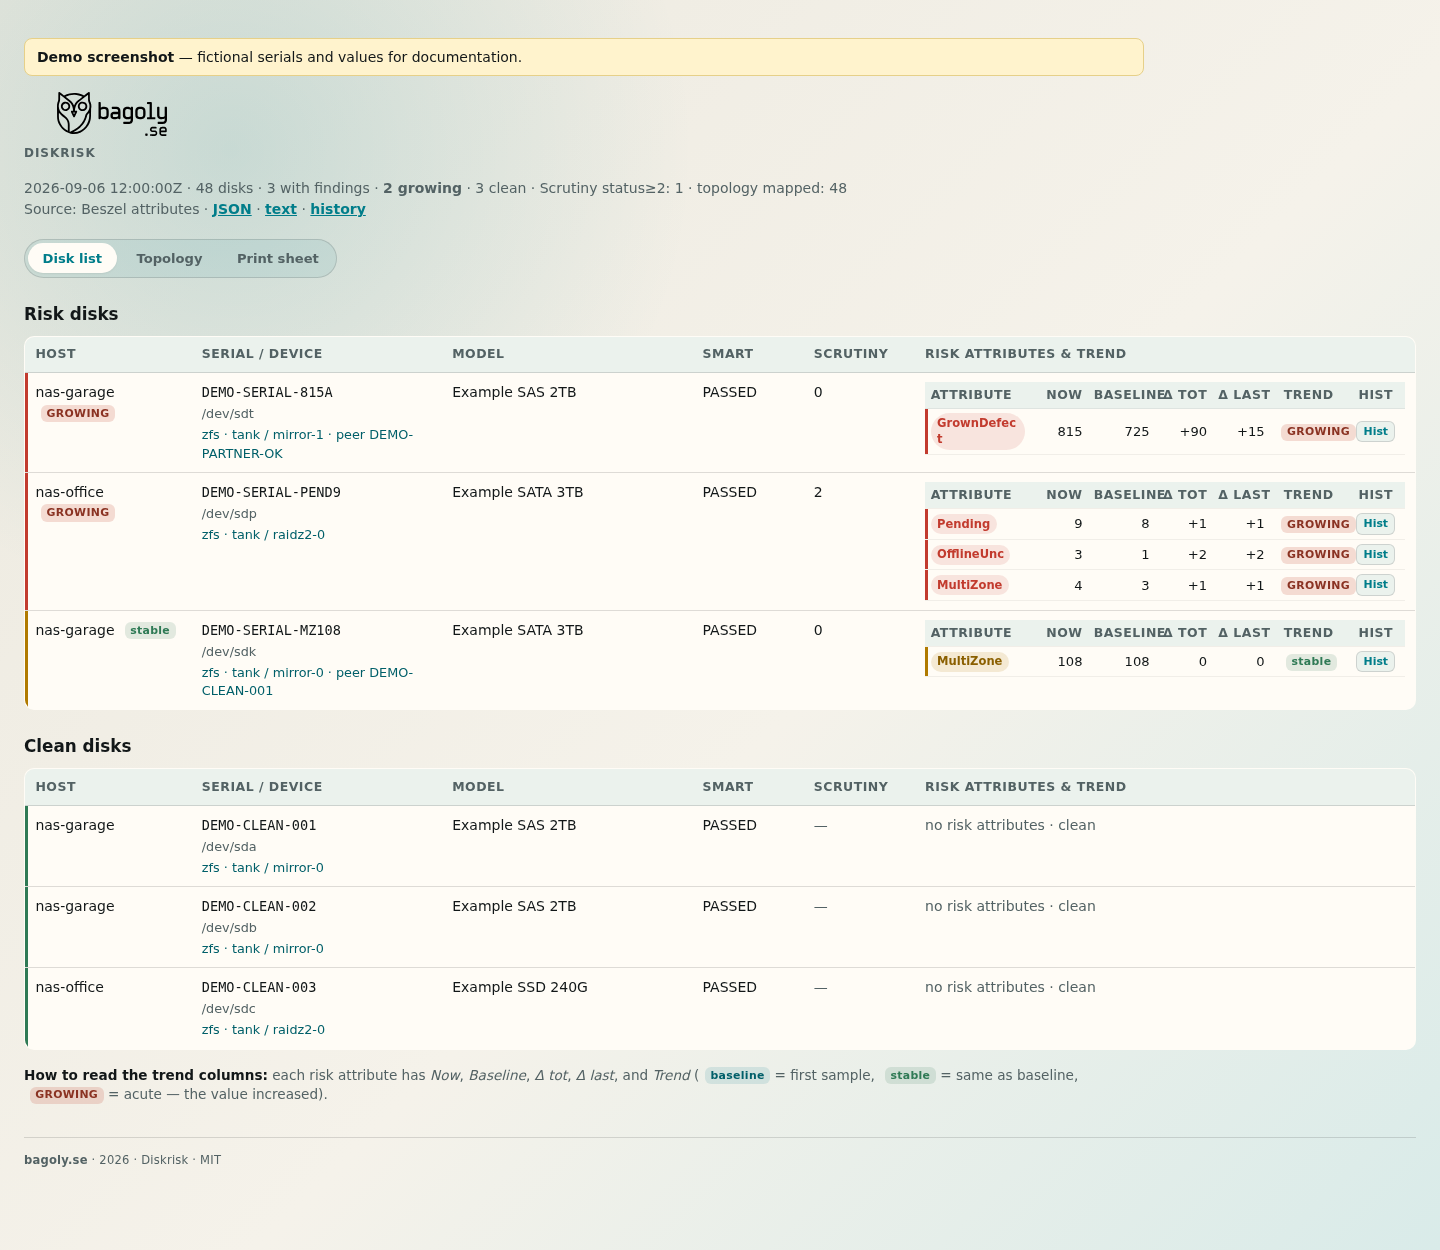
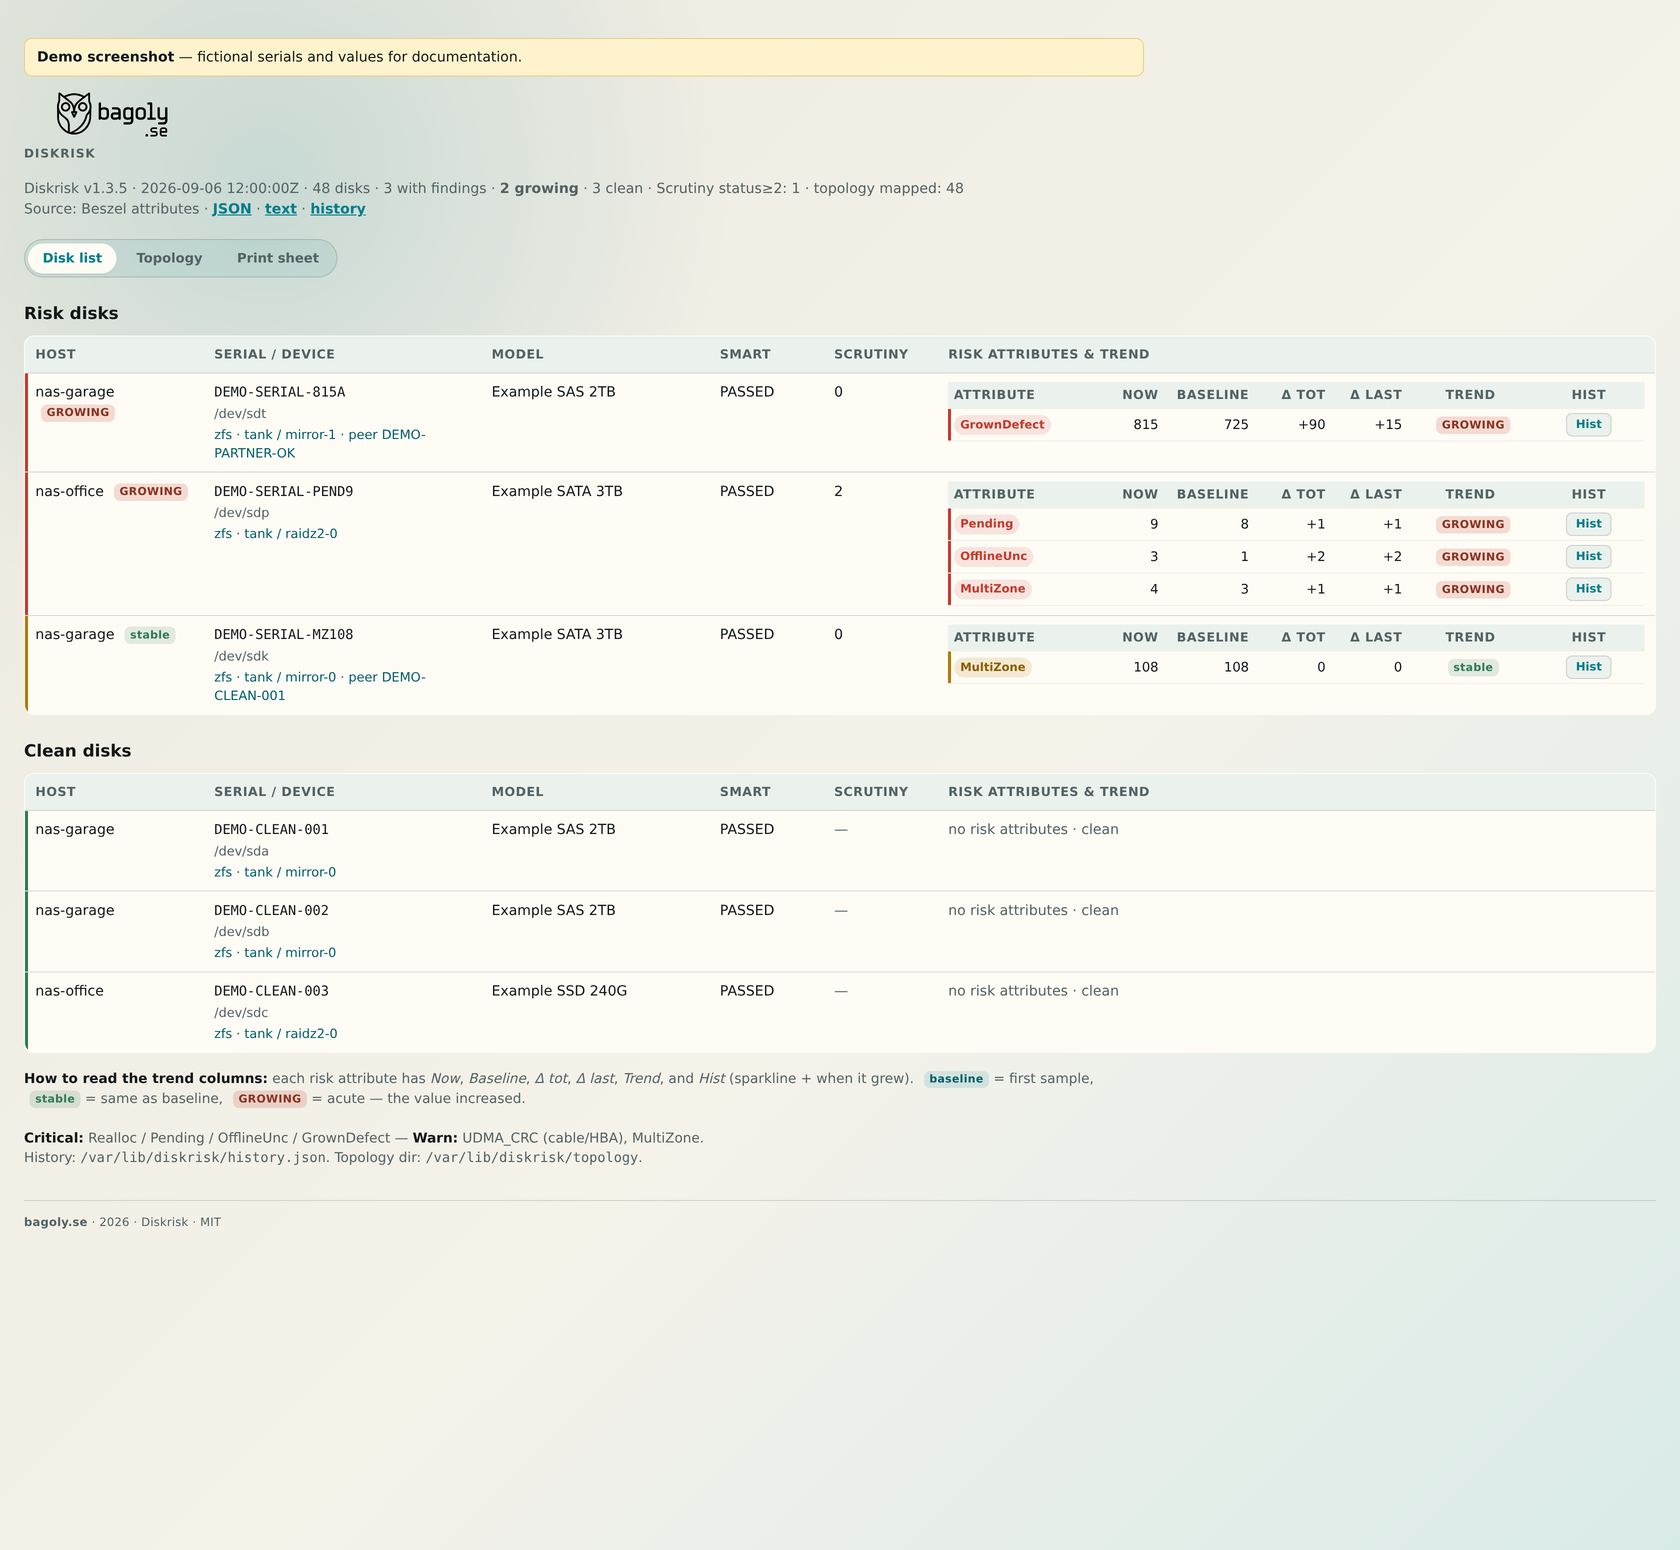
Refresh disk-list demo screenshot for v1.3.5 UI Wider attribute/Hist columns, version + history legend, sharper capture.

diff --git a/docs/examples/diskrisk-ui-demo.html b/docs/examples/diskrisk-ui-demo.html
@@ -40,12 +40,12 @@ table.disk-table {
   width: 100%; border-collapse: collapse; background: var(--card);
   border: 1px solid var(--line); border-radius: 10px; overflow: hidden; table-layout: fixed;
 }
-table.disk-table col.c-host { width: 12%; }
-table.disk-table col.c-serial { width: 18%; }
-table.disk-table col.c-model { width: 18%; }
-table.disk-table col.c-smart { width: 8%; }
-table.disk-table col.c-scr { width: 8%; }
-table.disk-table col.c-attrs { width: 36%; }
+table.disk-table col.c-host { width: 11%; }
+table.disk-table col.c-serial { width: 17%; }
+table.disk-table col.c-model { width: 14%; }
+table.disk-table col.c-smart { width: 7%; }
+table.disk-table col.c-scr { width: 7%; }
+table.disk-table col.c-attrs { width: 44%; }
 table.disk-table th, table.disk-table td {
   padding: .55rem .65rem; text-align: left; vertical-align: top;
   border-bottom: 1px solid var(--line); word-break: break-word;
@@ -62,18 +62,20 @@ tr.ok td:first-child { box-shadow: inset 3px 0 0 var(--ok); }
 code { font-size: .85rem; }
 .muted { color: var(--muted); }
 table.attrs { width: 100%; border-collapse: collapse; font-size: .82rem; table-layout: fixed; }
-table.attrs col.c-a-name { width: 22%; }
-table.attrs col.c-a-nu { width: 12%; }
-table.attrs col.c-a-bas { width: 14%; }
-table.attrs col.c-a-dtot { width: 12%; }
-table.attrs col.c-a-dprev { width: 12%; }
-table.attrs col.c-a-trend { width: 16%; }
-table.attrs col.c-a-hist { width: 12%; }
+table.attrs col.c-a-name { width: 20%; }
+table.attrs col.c-a-nu { width: 11%; }
+table.attrs col.c-a-bas { width: 13%; }
+table.attrs col.c-a-dtot { width: 11%; }
+table.attrs col.c-a-dprev { width: 11%; }
+table.attrs col.c-a-trend { width: 18%; }
+table.attrs col.c-a-hist { width: 16%; }
 table.attrs th, table.attrs td {
   padding: .25rem .35rem; border: none; border-bottom: 1px solid rgba(18,23,24,.06); vertical-align: middle;
+  overflow: hidden; text-overflow: ellipsis;
 }
 table.attrs th.num, table.attrs td.num { text-align: right; font-variant-numeric: tabular-nums; white-space: nowrap; }
 table.attrs th.trend, table.attrs td.trend, table.attrs th.hist, table.attrs td.hist { text-align: center; white-space: nowrap; }
+table.attrs th.attr-name, table.attrs td.attr-name { text-align: left; white-space: nowrap; }
 .chip {
   display: inline-block; padding: .1rem .4rem; border-radius: 999px;
   font-size: .72rem; font-weight: 600;
@@ -91,8 +93,8 @@ table.attrs th.trend, table.attrs td.trend, table.attrs th.hist, table.attrs td.
 .badge.base { background: rgba(0,125,138,.12); color: #005f69; }
 .hist-btn {
   margin: 0; border: 1px solid var(--line); background: rgba(0,125,138,.08);
-  color: var(--teal); font: inherit; font-size: .68rem; font-weight: 700;
-  padding: .12rem .4rem; border-radius: 6px; cursor: pointer;
+  color: var(--teal); font: inherit; font-size: .72rem; font-weight: 700;
+  padding: .15rem .55rem; border-radius: 6px; cursor: pointer;
 }
 .view-bar { display: flex; flex-wrap: wrap; align-items: center; gap: .65rem; margin: 0 0 1rem; }
 .view-toggle {
@@ -207,6 +209,7 @@ table.attrs th.trend, table.attrs td.trend, table.attrs th.hist, table.attrs td.
     <p class="product">Diskrisk</p>
   </header>
   <p class="meta">
+    Diskrisk v1.3.5 ·
     2026-09-06 12:00:00Z ·
     48 disks ·
     3 with findings ·
@@ -317,6 +320,7 @@ table.attrs th.trend, table.attrs td.trend, table.attrs th.hist, table.attrs td.
     </tbody>
   </table>
 
+  <div id="clean-section">
   <h2>Clean disks</h2>
   <table class="disk-table">
     <colgroup>
@@ -335,16 +339,19 @@ table.attrs th.trend, table.attrs td.trend, table.attrs th.hist, table.attrs td.
       <tr class="ok"><td>nas-office</td><td><code>DEMO-CLEAN-003</code><div class="sub">/dev/sdc</div><div class="sub topo">zfs · tank / raidz2-0</div></td><td>Example SSD 240G</td><td>PASSED</td><td class="muted">—</td><td class="muted">no risk attributes · clean</td></tr>
     </tbody>
   </table>
+  </div>
 
   <p class="legend">
     <strong>How to read the trend columns:</strong>
-    each risk attribute has <em>Now</em>, <em>Baseline</em>, <em>Δ tot</em>, <em>Δ last</em>, and
-    <em>Trend</em> (<span class="badge base">baseline</span> =
-    first sample,
-    <span class="badge stable">stable</span> =
-    same as baseline,
-    <span class="badge grow">GROWING</span> =
-    acute — the value increased).
+    each risk attribute has <em>Now</em>, <em>Baseline</em>, <em>Δ tot</em>, <em>Δ last</em>,
+    <em>Trend</em>, and <em>Hist</em> (sparkline + when it grew).
+    <span class="badge base">baseline</span> = first sample,
+    <span class="badge stable">stable</span> = same as baseline,
+    <span class="badge grow">GROWING</span> = acute — the value increased.<br/><br/>
+    <strong>Critical:</strong> Realloc / Pending / OfflineUnc / GrownDefect —
+    <strong>Warn:</strong> UDMA_CRC (cable/HBA), MultiZone.<br/>
+    History: <code>/var/lib/diskrisk/history.json</code>.
+    Topology dir: <code>/var/lib/diskrisk/topology</code>.
   </p>
   </div>
 
